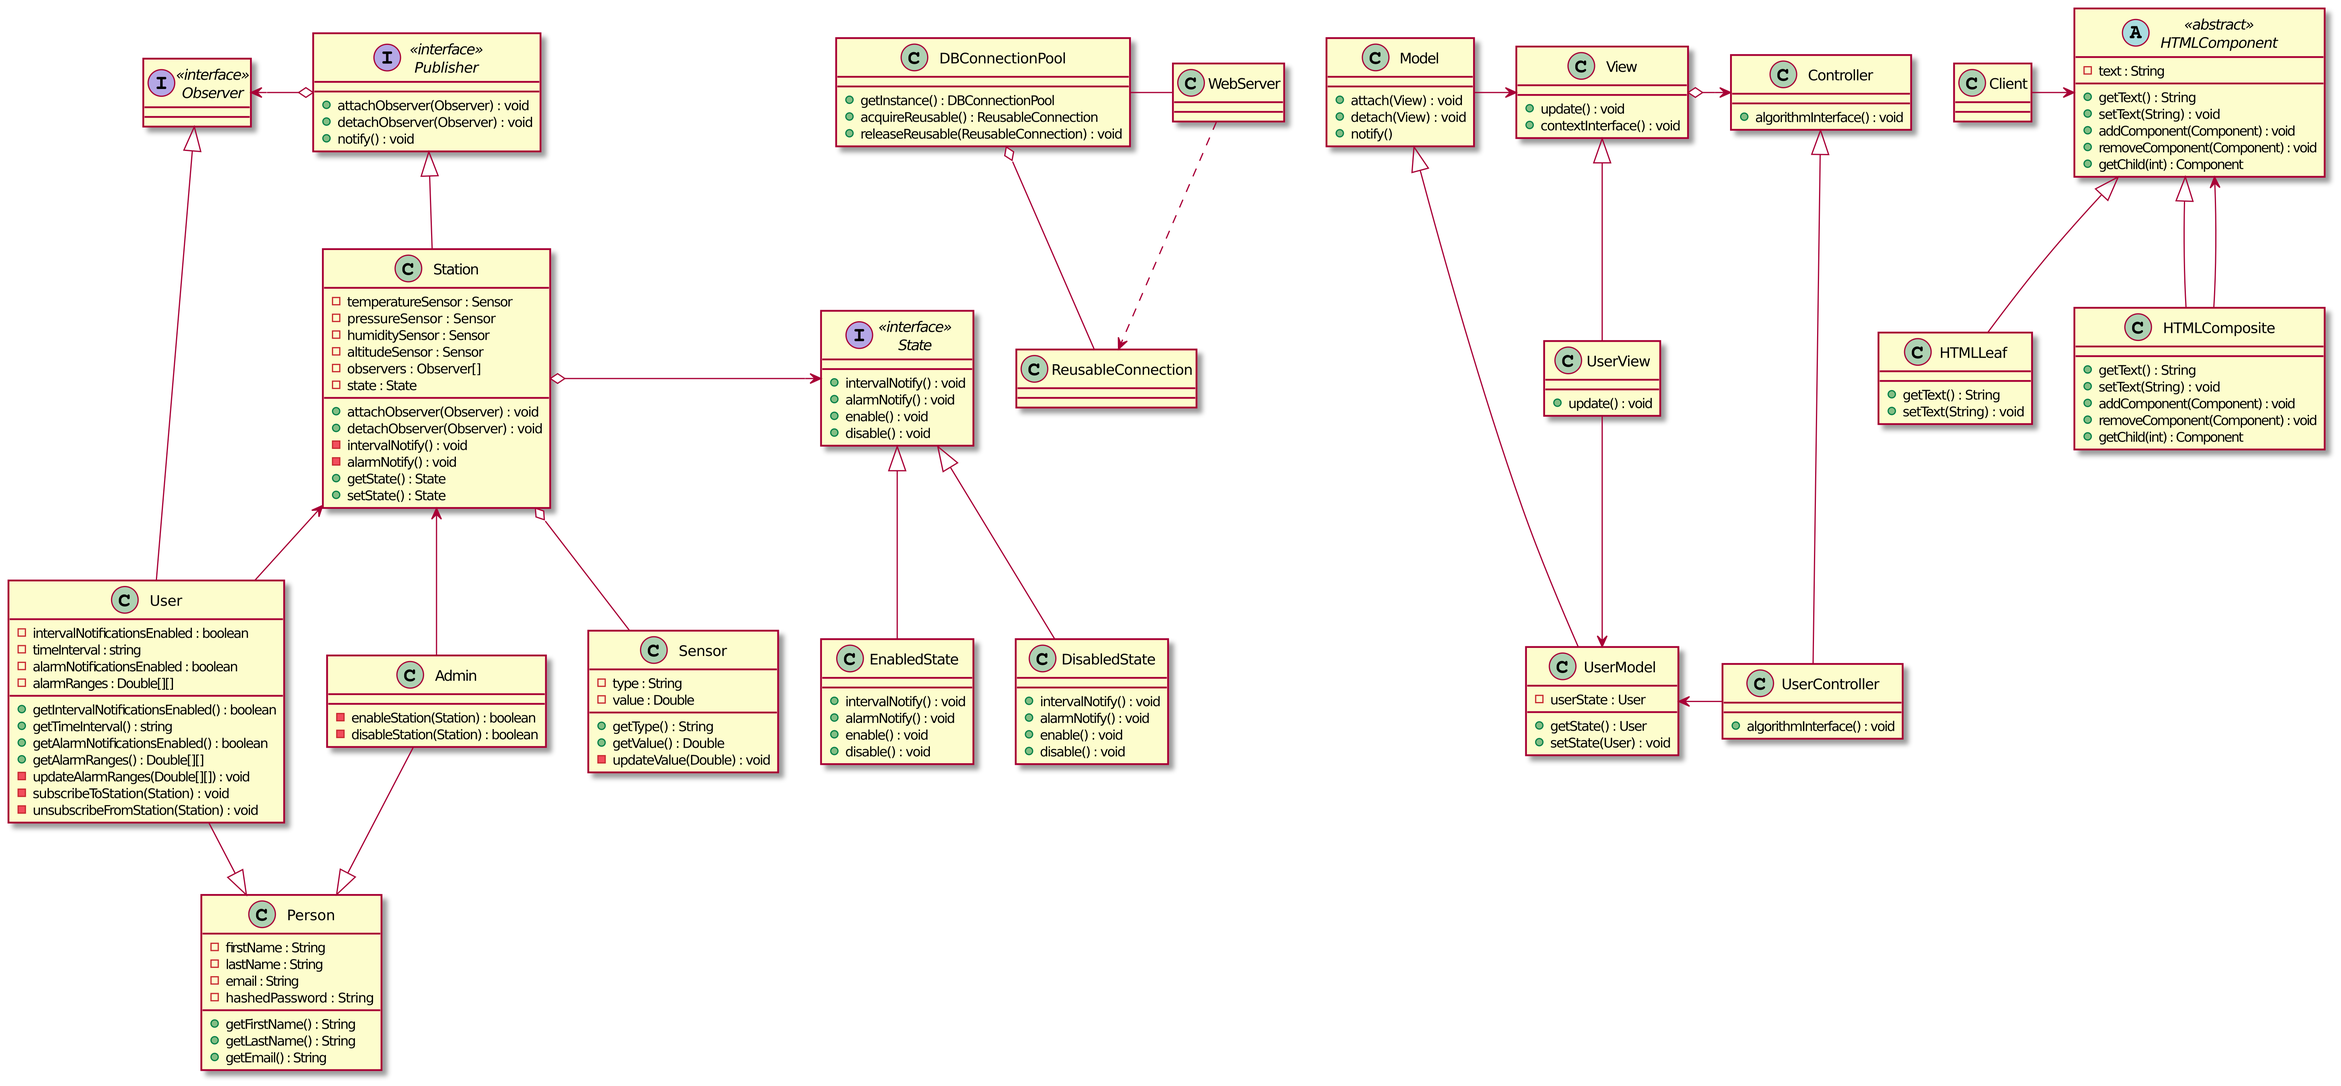
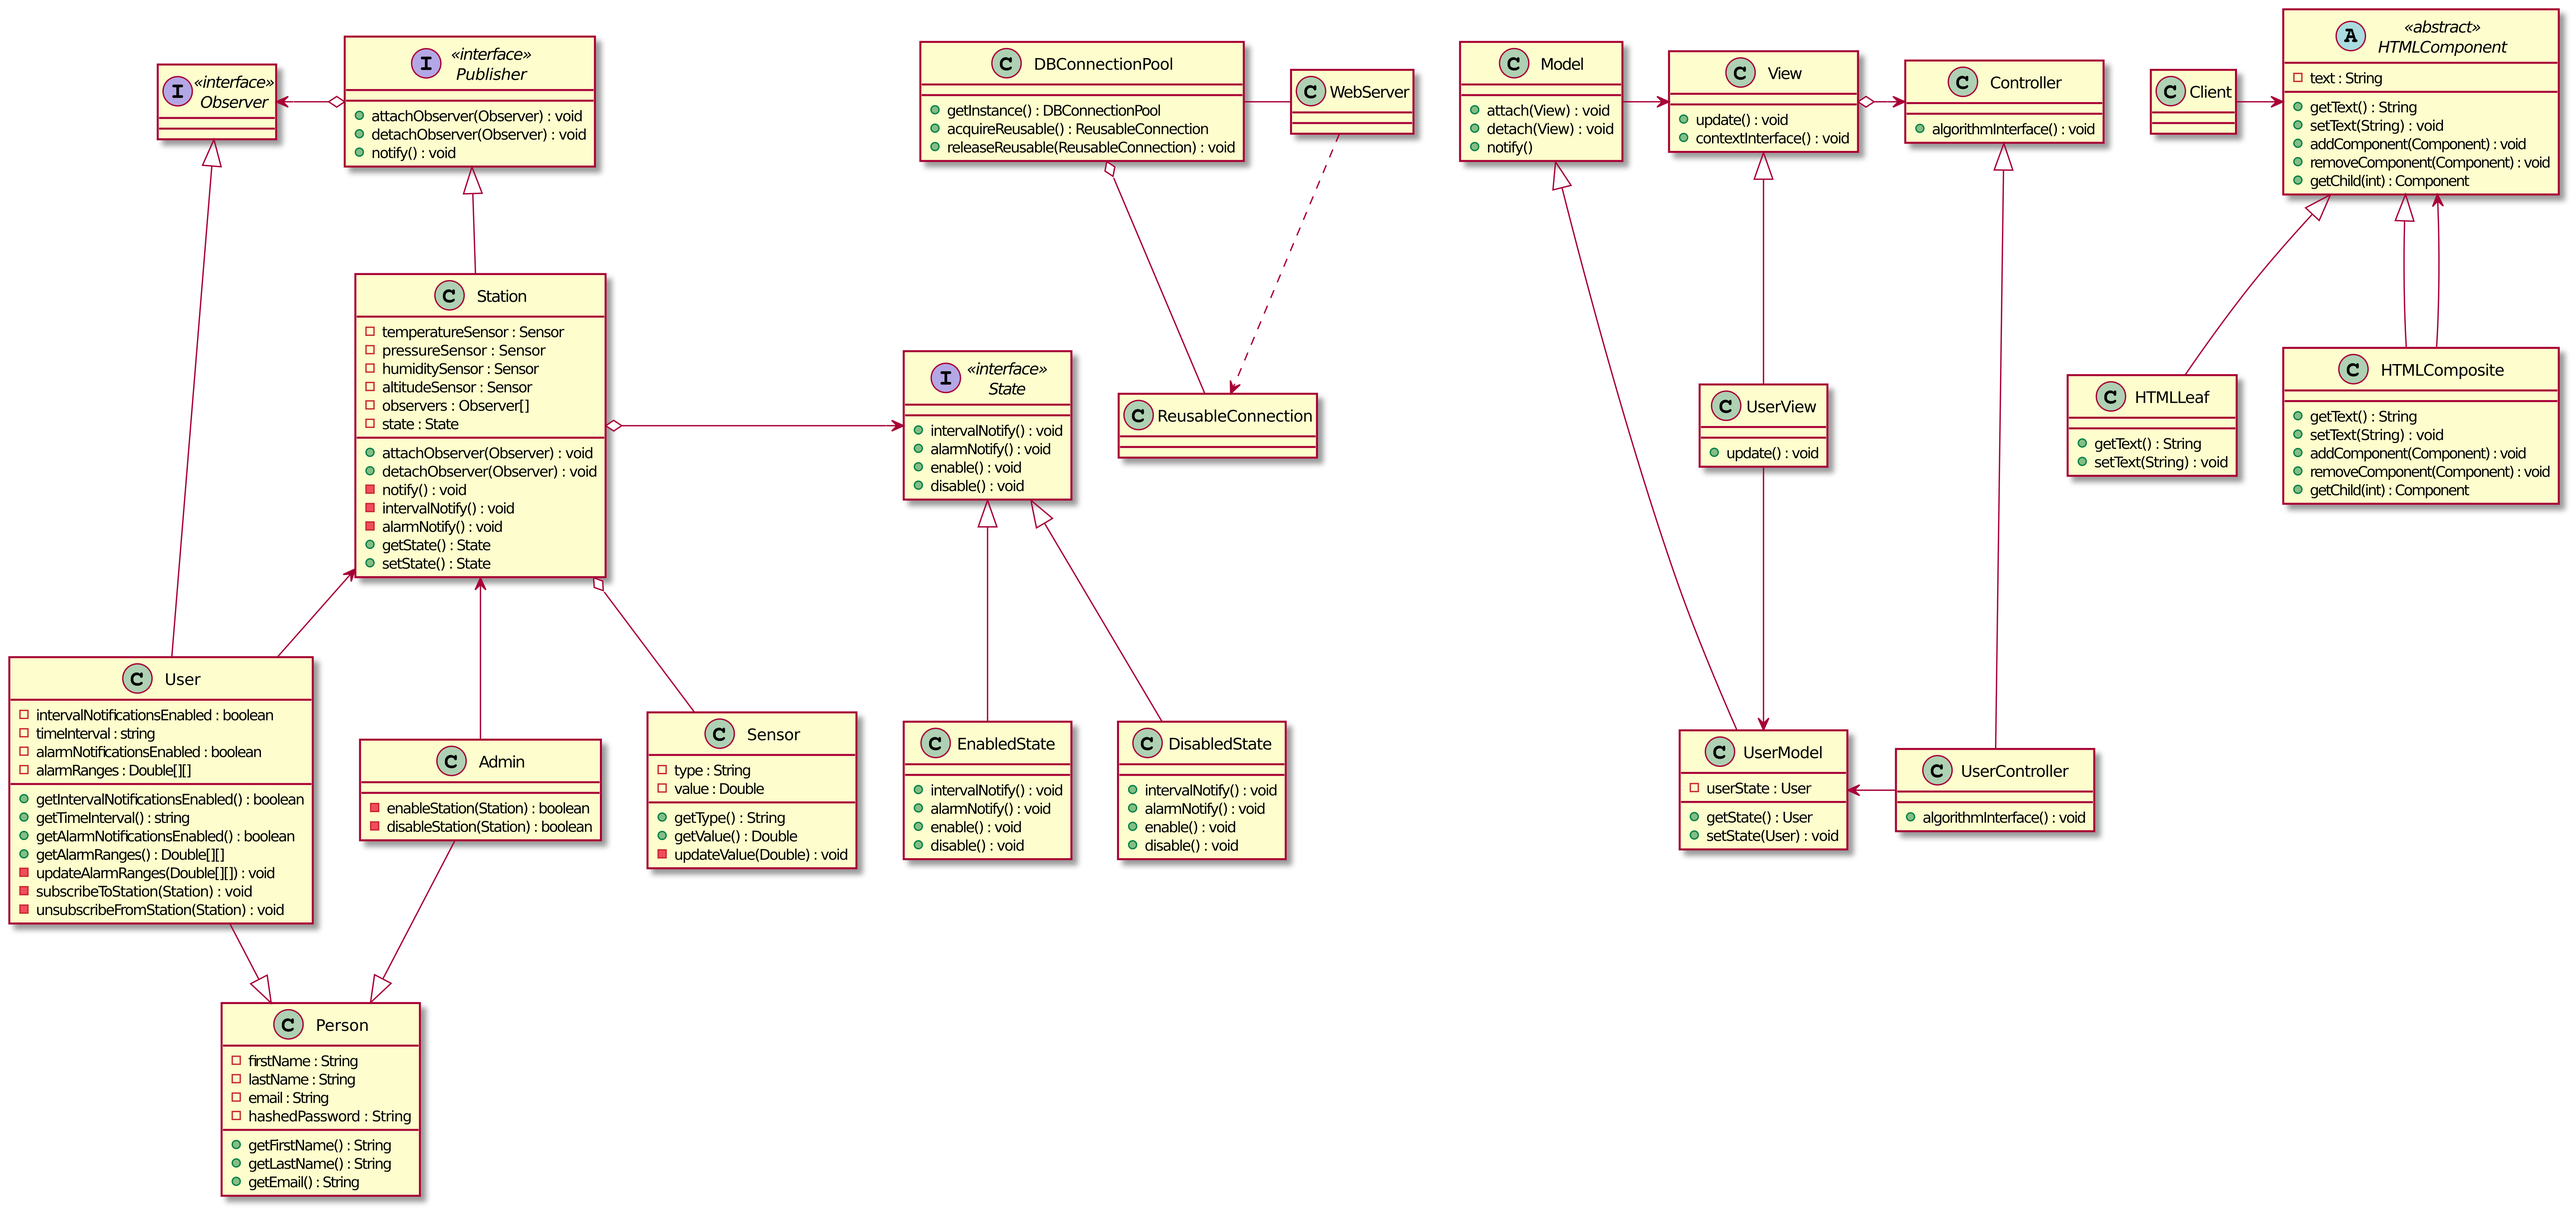
patterns

diff --git a/README.md b/README.md
@@ -54,8 +54,8 @@
 * Class Diagram- Sagar  
   ![Class Diagram](https://github.com/ooad-sv/semester-project-design/blob/main/diagrams/class/diagram.png)
   * Patterns:
-    * Observer- user and station
-    * State- Station enabled/disabled
-    * Object Pool- DB connections
-    * MVC- Everything tied together
-    * Composite- HTML DOM
+    * `Observer`: The `User` class implements the `Observer` interface. The `Station` class implements the `Publisher` interface and stores references to the `Observer` interface and implements `attachObserver`, `detachObserver` and `notify` methods. The station class has two other notify methods named `intervalNotify` and `alarmNotify`, which internally call the same `notify` method.
+    * `State`: The `Station` class stores a reference to the `State` interface which stores its state. Concrete classes `EnabledState` and `DisabledState` implement the `State` interface and override the `intervalNotify`, `alarmNotify`, `enable` and `disable` methods.
+    * `Object Pool`: We are using Node.js for the web server and PostgreSQL for the database. The `WebServer` will get an instance of the `DBConnectionPool` using the `getInstance` method. It will get an instance of `ReusableConnection` using the `acquireReusable` method and later release it using the `releaseReusable` method.
+    * `MVC`: We are using Node.js for the web server along with the Express.js framework. We're applying the `MVC` pattern where user interacts with the `View`, `Controller` changes the `Model` state and renders the `View` and `Model` updates the `View`. For example, a webpage for displaying user information will involve `UserModel` to store the user information, `UserView` to display it and `UserController` to update the state and render the `UserView`.
+    * `Composite`: We are using HTML to display the web UI. The DOM tree in HTML is a good example of the `Composite` pattern. Each element in the DOM tree implements the `HTMLComponent` interface. An element can either be an `HTMLComposite`, which further contains more elements, or it could be an `HTMLLeaf`, the leaf of that tree node. Both `HTMLLeaf` and `HTMLComposite` implement the `HTMLComponent` interface.
